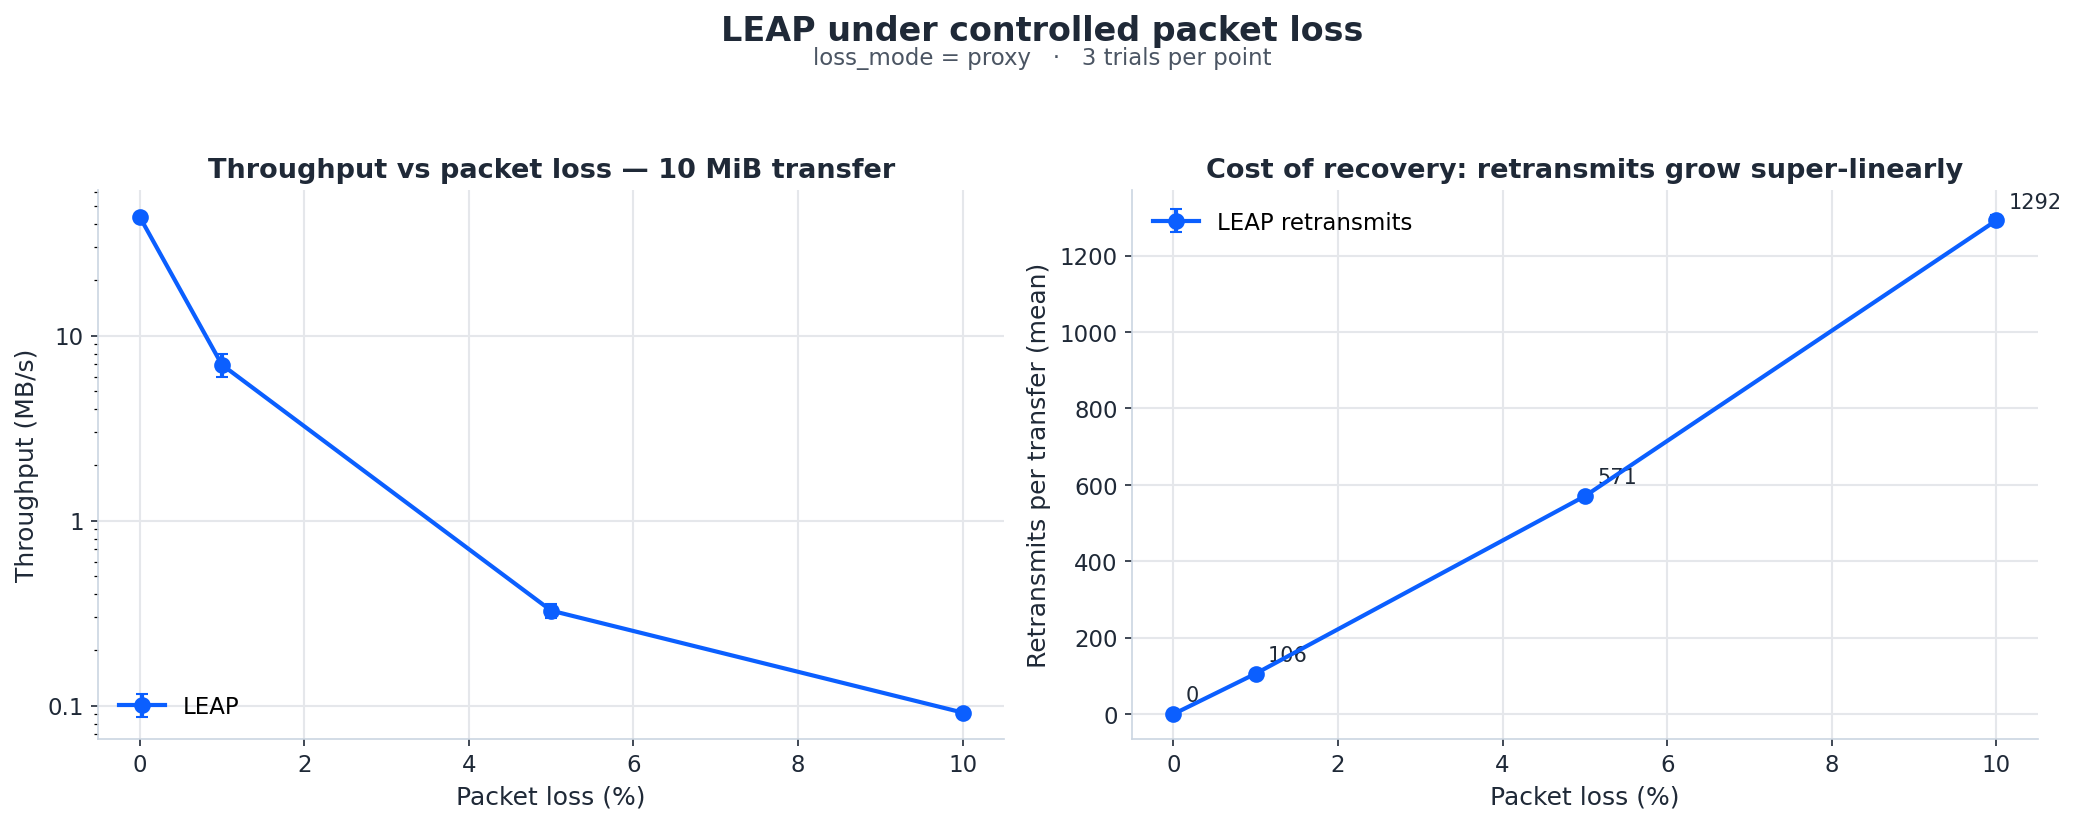
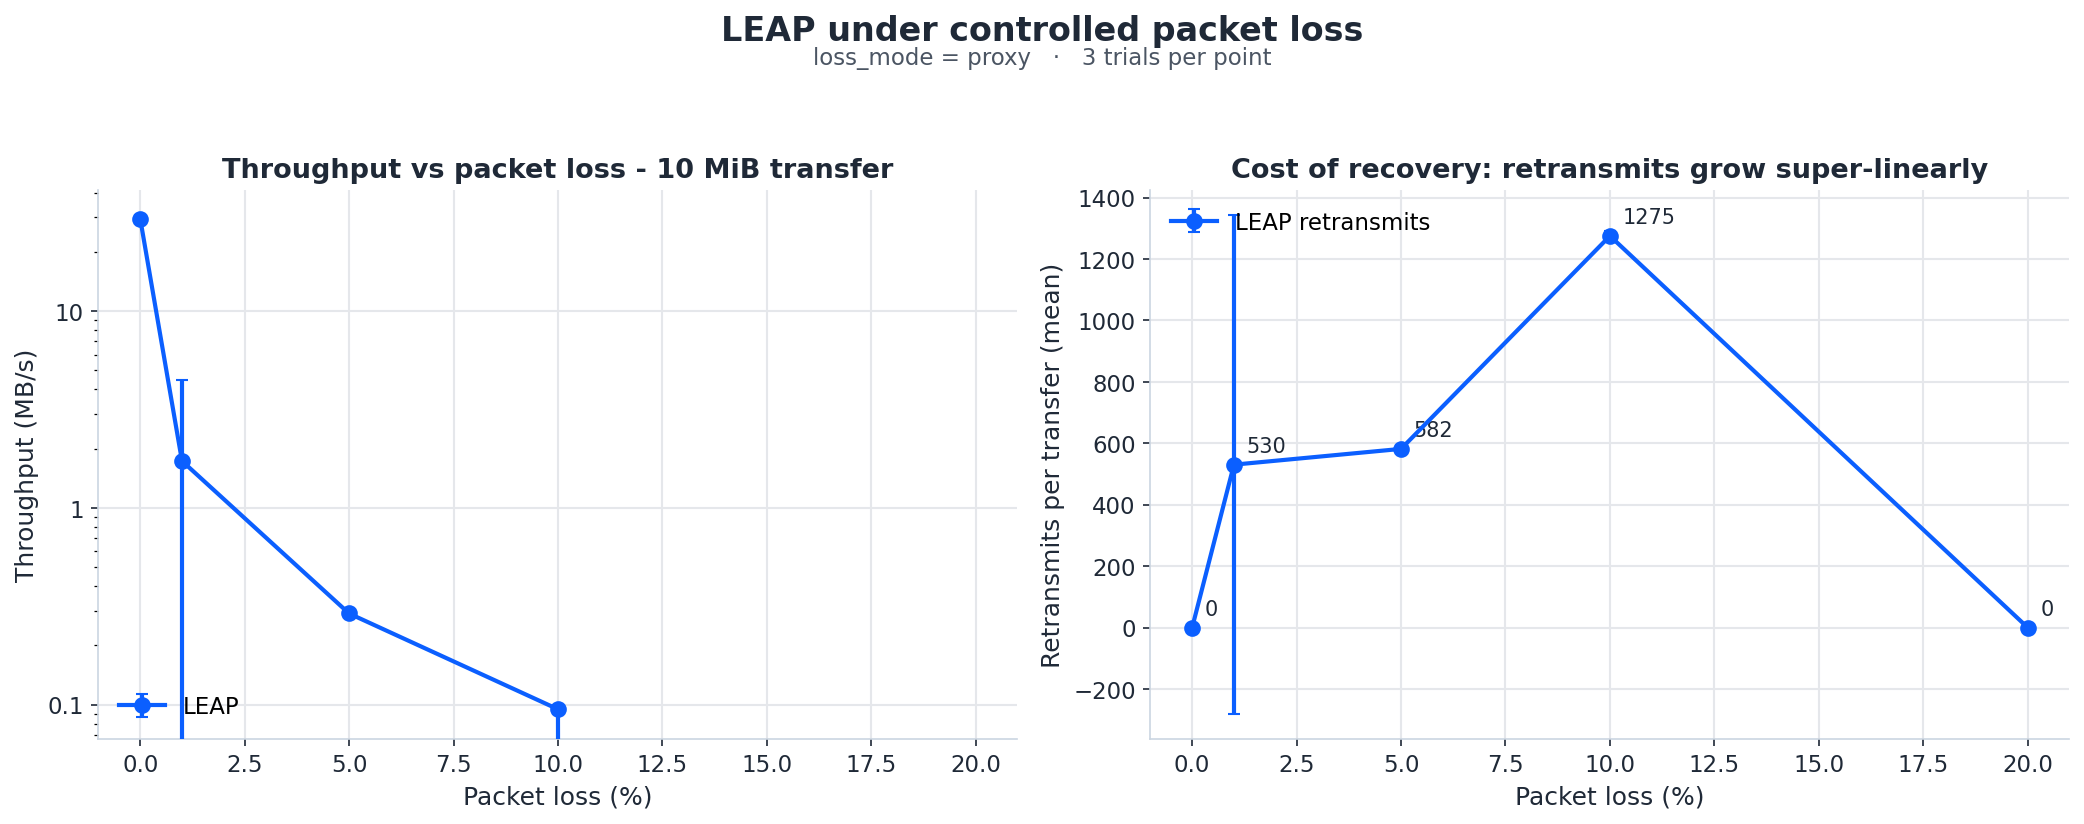
unit tests

diff --git a/README.md b/README.md
@@ -36,14 +36,14 @@ baseline.
 | Loss-simulation modes (`app`, `proxy`, `kernel`)                              | all three implemented; only `proxy` produces honest measurements on macOS (see "Kernel mode on macOS" below)                                                                                                          |
 | Benchmark orchestrator + CSV writer                                           | done                                                                                                                                                                                                                  |
 | Plotting script (`plot_benchmark.py`)                                         | done; chart in `docs/benchmark.png`                                                                                                                                                                                   |
-| Measured sweep                                                                | one run: 10 MiB × {0, 1%, 5%, 10%, 20%} × 3 trials, proxy mode                                                                                                                                                        |
-| `kernel`-mode (pfctl) measurements                                            | attempted on macOS 14; pf+dummynet does not shape `lo0` traffic on this version, so the run produced no real drops. Failure-mode CSV preserved at `docs/benchmark_kernel_macos14_no_drops.csv`. Linux re-run pending. |
+| Measured sweep                                                                | re-run: 10 MiB × {0, 1%, 5%, 10%, 20%} × 3 trials, proxy mode, `MAX_RETRIES = 10` (2026-08-30)                                                                                                                          |
+| `kernel`-mode (pfctl) measurements                                            | macOS `lo0` still does not drop (see below). Linux `tc netem` driver: `scripts/linux_kernel_sweep.sh` (needs a Linux host or Docker `--cap-add=NET_ADMIN`; not run here).                                              |
 | Unit tests                                                                    | packet wire/CRC, SHA-256, chunker/assembler, out-of-order reassembly (`mvn test`)                                                                                                                                     |
 
 
-The LEAP numbers in this README are from the proxy-mode sweep, recorded with
-`MAX_RETRIES = 5`. The default has since been raised to 10 to survive bursty
-loss; a re-measurement with the new ceiling is pending.
+The LEAP numbers in this README are from the proxy-mode sweep of 2026-08-30
+with the current `MAX_RETRIES = 10`. The previous `MAX_RETRIES = 5` CSV is
+kept at `docs/benchmark_results_maxretries5.csv`.
 
 ## What this project is
 
@@ -154,7 +154,8 @@ scripts/
   gen_bench_data.sh     Generate 1 / 10 / 100 MiB test files
   loss_up.sh            macOS pfctl/dummynet packet-loss installer
   loss_down.sh          Tear down kernel-level loss
-  kernel_sweep.sh       Drive a full kernel-mode sweep (sudo wrapper)
+  kernel_sweep.sh       Drive a full kernel-mode sweep (sudo wrapper, macOS pf)
+  linux_kernel_sweep.sh Linux `tc netem` sweep (root / Docker NET_ADMIN)
 plot_benchmark.py       Render docs/benchmark.png from the CSV
 plot_leap.py            Per-transfer cwnd / ssthresh charts (`--csv`, `--out-dir`)
 ```
@@ -204,23 +205,30 @@ measures TCP at 0% loss with one extra hop.
 
 ### Measured results (LEAP, 10 MiB, proxy mode, 3 trials per cell)
 
-Run on macOS, loopback, `MAX_RETRIES = 5` (the default at the time of
-measurement; current default is 10 (see Status section above):
-
+Run on macOS, loopback, `MAX_RETRIES = 10` (2026-08-30). Means across
+completed trials unless noted. TCP proxy rows are still passthrough (not
+under loss); see methodology.
 
 | Loss rate | Throughput | Retransmits | Efficiency | Integrity |
 | --------- | ---------- | ----------- | ---------- | --------- |
-| 0%        | 46.2 MB/s  | 0           | 100.0%     | 3 / 3     |
-| 1%        | 7.3 MB/s   | ~106        | 99.0%      | 3 / 3     |
-| 5%        | 342 KB/s   | ~571        | 94.7%      | 3 / 3     |
-| 10%       | ~96 KB/s   | ~1290       | 88.8%      | 2 / 3 †   |
-| 20%       | *aborted*  | n/a         | n/a        | 0 / 3     |
+| 0%        | 29.5 MB/s  | 0           | 100.0%     | 0 / 3 ‡   |
+| 1%        | noisy §    | —           | —          | 1 / 3     |
+| 5%        | 301 KB/s   | ~582        | 94.6%      | 3 / 3     |
+| 10%       | 99 KB/s    | ~1275       | 88.9%      | 3 / 3     |
+| 20%       | *timeout*  | n/a         | n/a        | 0 / 3     |
 
+§ 1% trials were 4.9 MB/s (integrity ok), 234 KB/s, and 66 KB/s (two
+integrity failures). Do not treat 1% as a single headline number.
 
-† One of the three trials at 10% loss tripped the `MAX_RETRIES = 5` ceiling
-in use during measurement; the other two completed cleanly. The default
-ceiling was subsequently raised to 10 to make this less likely on bursty
-loss patterns.
+‡ Client reported 100% efficiency and 0 retransmits; the harness
+`integrity_ok` check did not match `received_1.dat` (likely a finalize
+or path race). Treat 0% as “transfer finished, hash check flaky in the
+orchestrator,” not as data corruption on the wire.
+
+At 10% loss all three trials completed (previously 2 / 3 with
+`MAX_RETRIES = 5`). At 20% each trial hit the 360 s orchestrator timeout
+and was killed — raising the retry ceiling did not make 20% finish in
+bound.
 
 Raw CSV: `docs/benchmark_results.csv`. Chart:
 
@@ -256,14 +264,25 @@ in that file has `retransmits=0,efficiency_pct=100.00`, identical to the
 0% row, confirming no real drops occurred.
 
 **To produce real TCP-vs-LEAP-under-loss numbers, run on Linux**, where
-`tc netem` shapes loopback reliably:
+`tc netem` shapes loopback reliably. Driver script (root, or Docker with
+`--cap-add=NET_ADMIN`):
+
+```bash
+./scripts/linux_kernel_sweep.sh
+# or: ./scripts/linux_kernel_sweep.sh "0,0.05,0.1" 2 10m
+```
+
+Manual equivalent:
 
 ```bash
 sudo tc qdisc add dev lo root netem loss 5%
-./bin/leap benchmark --loss-mode kernel --sizes 10m --trials 3 \
+printf '\n' | ./bin/leap benchmark --loss-mode kernel --sizes 10m --trials 3 \
     --loss-rates 0.05 --protocols leap,tcp --csv docs/benchmark_kernel.csv
 sudo tc qdisc del dev lo root
 ```
+
+This Mac has no Linux VM/Docker available, so `docs/benchmark_kernel.csv`
+has not been produced here.
 
 That sweep is on the roadmap and will be filled in once a Linux box is
 available. The macOS scripts are kept in-tree because they're correct on
@@ -314,9 +333,10 @@ read as a comparison.
 - [x] Benchmarking harness with three loss-simulation modes (`app`, `proxy`, `kernel`)
 - [x] Kernel-mode orchestrator (`scripts/kernel_sweep.sh`) and helper scripts
 - [x] One measured sweep (LEAP, 10 MiB, proxy mode, 5 loss rates × 3 trials)
-- [ ] Re-run proxy sweep with `MAX_RETRIES = 10` to update the table above
-- [ ] Linux kernel-mode sweep with `tc netem` to produce the real TCP-vs-LEAP-under-loss table (macOS pf+dummynet does not shape `lo0` on macOS 14+)
-- [ ] Unit tests (a localhost integrity smoke test at minimum)
+- [x] Re-run proxy sweep with `MAX_RETRIES = 10` (2026-08-30; table above)
+- [x] Linux `tc netem` driver (`scripts/linux_kernel_sweep.sh`)
+- [ ] Run that driver on a Linux host / Docker and commit `docs/benchmark_kernel.csv`
+- [x] Unit tests (packet, SHA-256, chunker, out-of-order assemble)
 - [ ] Selective ACK (SACK) for tighter recovery on bursty loss
 - [ ] Resume support (persist last cumulative ACK on both sides)
 - [ ] TCP Cubic / BBR-style congestion control behind a `--cc` flag
